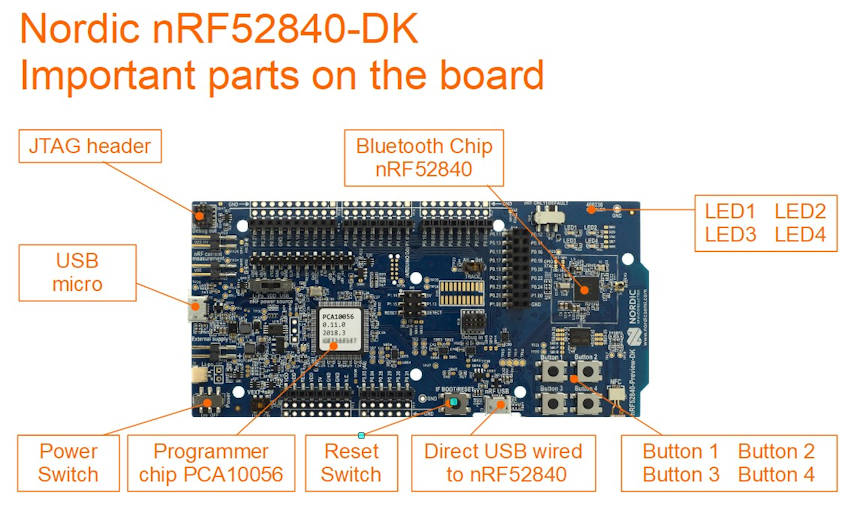
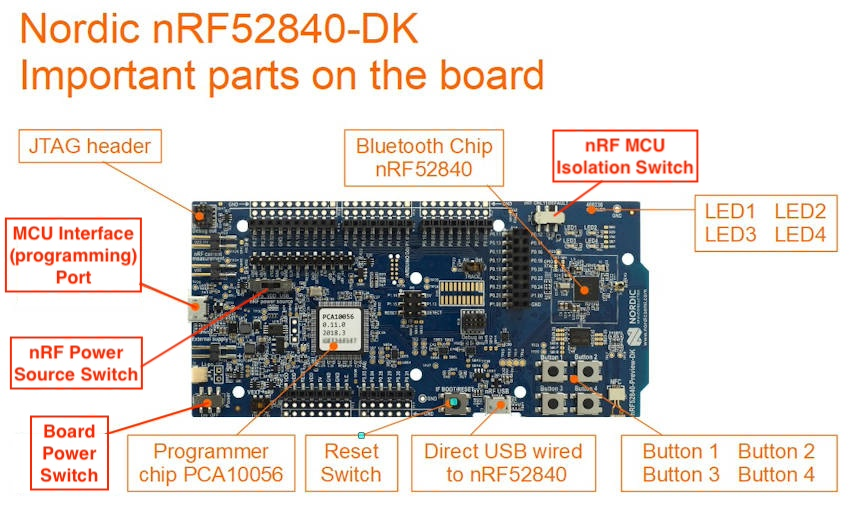
add annotations to figure

diff --git a/src/course/thread-net/overview.md b/src/course/thread-net/overview.md
@@ -66,18 +66,20 @@ packet.
 
 ## nRF52840dk Hardware Setup
 
-![nRF52840dk](../../imgs/nrf52840dk.jpg)
+![nRF52840dk with key pieces annotated](../../imgs/nrf52840dk-annotated.jpg)
 
 Make sure the switches and jumpers are properly configured on your board:
 
-1. The "Power" switch on the top left should be set to "On".
+1. The board "Power" switch on the bottom left should be set to "On".
 2. The "nRF power source" switch in the top middle of the board should be set to
    "VDD".
-3. The "nRF ONLY | DEFAULT" switch on the bottom right should be set to
-   "DEFAULT".
+   - _Note:_ If you have a screen already attached, this switch is partially
+             hidden underneath the screen.
+3. The isolation switch, labeled "nRF ONLY | DEFAULT", on the top right should
+   be set to "DEFAULT".
 
-You should plug one USB cable into the top of the board for programming (NOT
-into the "nRF USB" port on the side).
+You should plug one USB cable into the side of the board for programming (NOT
+into the "nRF USB" port on the bottom right).
 
 If you have a SSD1306-based screen with I2C pins, you should attach it to pins
 P1.10 (SDA) and P1.11 (SCL).
